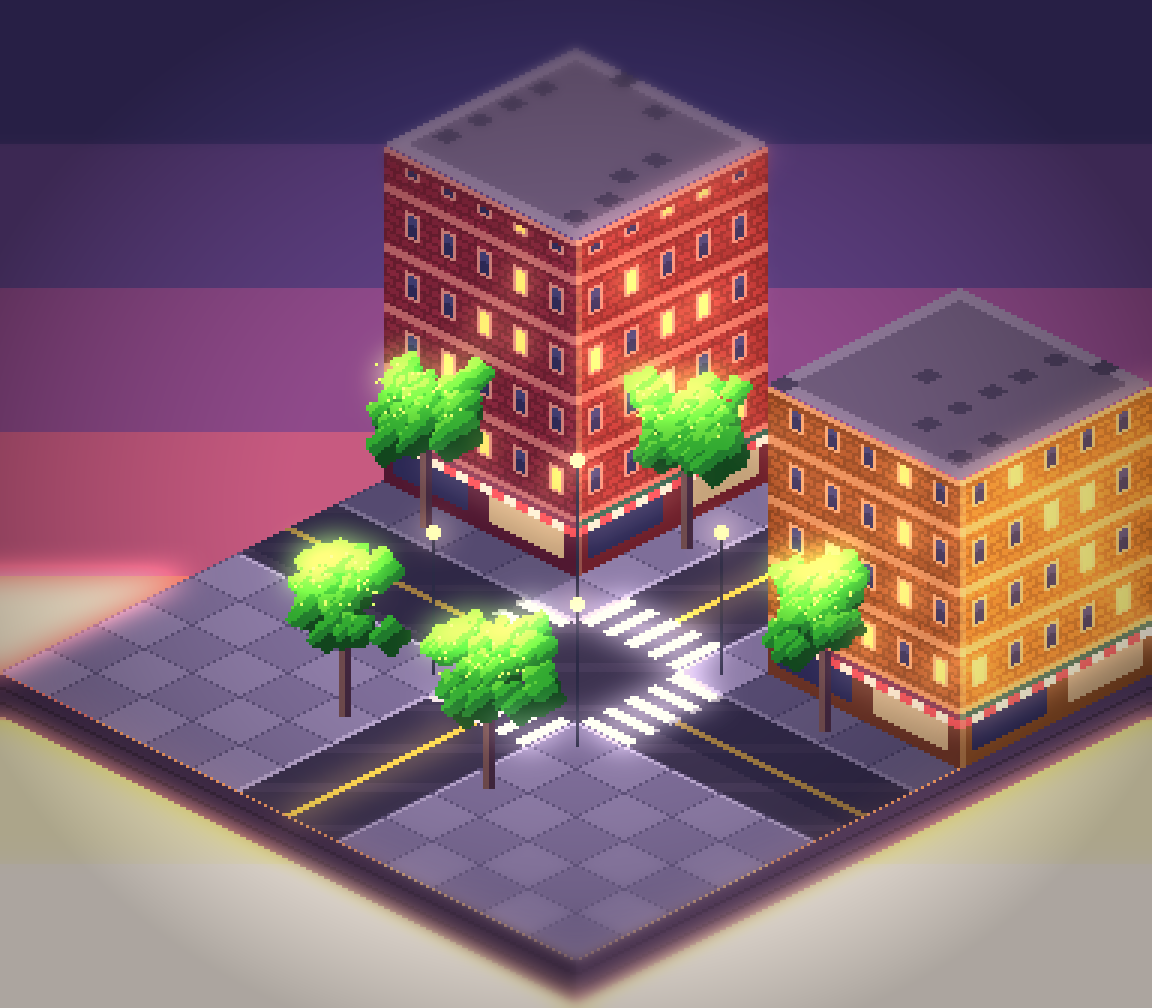
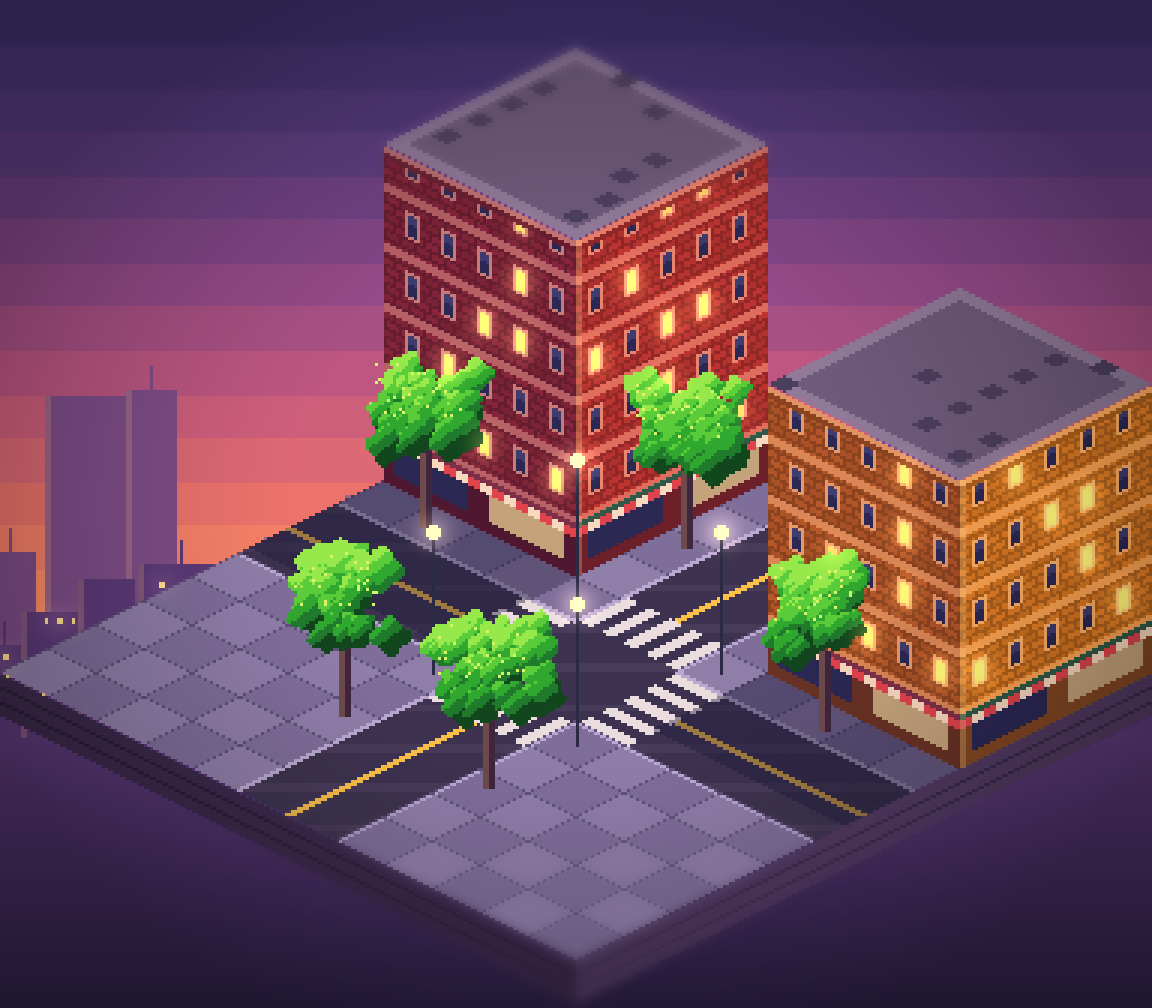
Iso block: gradient sky, far skyline, lights-only bloom, dark ground fog
Claude-Session: https://claude.ai/code/session_018A3EjUJwum2xaBpGm7gsrV

diff --git a/games/background/iso/make_iso_v1.py b/games/background/iso/make_iso_v1.py
@@ -1,0 +1,148 @@
+"""Isometric city block, 2:1 pixel iso (tile 32x16), dusk. Art grid 384x336, then an HD-2D look pass (bloom, tilt-shift, vignette)."""
+import math, random
+from PIL import Image, ImageFilter, ImageChops
+W,H=384,336; OX,OY=192,128; N=12
+def hx(s): s=s.lstrip('#'); return tuple(int(s[i:i+2],16) for i in (0,2,4))
+def lerp(a,b,t): return tuple(max(0,min(255,int(a[i]+(b[i]-a[i])*t))) for i in range(3))
+def hsh(*a): return (hash(a)&0xffff)/65535.0
+SKY=[hx(c) for c in ("#3b3170","#5a3f86","#8a4a90","#c05a86","#e8776e","#ffa06a","#ffc383")]
+im=Image.new("RGB",(W,H)); px=im.load()
+for y in range(H):
+    for x in range(W): px[x,y]=SKY[min(6,int(y/H*7*1.0))]
+def put(x,y,c):
+    if 0<=x<W and 0<=y<H: px[x,y]=c
+def scr(gx,gy,gz=0): return int(round(OX+(gx-gy)*16)), int(round(OY+(gx+gy)*8-gz))
+def inv(sx,sy): a=(sx-OX)/16; b=(sy-OY)/8; return (a+b)/2,(b-a)/2
+BUILD=[(0,4,0,4,112,"brick"),(8,12,0,4,96,"orange")]      # bx0,bx1,by0,by1,height,colour
+def inshadow(gx,gy):
+    for bx0,bx1,by0,by1,h,_ in BUILD:
+        d=h/40.0
+        if bx0<=gx<bx1 and by1<=gy<by1+d*(1-0.0): return True
+    return False
+ROAD=lambda g:5<=g<7
+ASPH=hx("#3b3354"); ASPH2=hx("#453b5e"); SIDE=hx("#8a7eb0"); SIDE2=hx("#7a6ea0"); JOINT=hx("#5c5280"); CURB=hx("#b4a8d8")
+# ---- ground by inverse mapping
+for y in range(H):
+    for x in range(W):
+        gx,gy=inv(x+.5,y+.5)
+        if not(0<=gx<N and 0<=gy<N): continue
+        rx,ry=ROAD(gx),ROAD(gy)
+        if rx or ry:
+            c=ASPH if int(gx*3+gy*3)%5 else ASPH2
+            if rx and ry: pass
+            elif ry:   # road runs along x (gy in 5..7)
+                if abs(gy-6)<.05 and not(3.9<gx<5.05 or 6.95<gx<8.1): c=hx("#f2c14e")
+                elif (3.9<gx<4.9 or 7.1<gx<8.1) and int((gy-5)*4.5)%2==0: c=hx("#e2dce8")
+            else:      # road runs along y
+                if abs(gx-6)<.05 and not(3.9<gy<5.05 or 6.95<gy<8.1): c=hx("#f2c14e")
+                elif (3.9<gy<4.9 or 7.1<gy<8.1) and int((gx-5)*4.5)%2==0: c=hx("#e2dce8")
+        else:
+            c=SIDE if (int(gx)+int(gy))%2 else SIDE2
+            for e in (5,7):
+                if abs(gx-e)<.09 or abs(gy-e)<.09: c=CURB
+            if abs(gx-int(gx))<.04 or abs(gy-int(gy))<.04: c=JOINT
+        if inshadow(gx,gy): c=lerp(c,hx("#1d1a3a"),.42)
+        px[x,y]=c
+# ---- slab sides (diorama thickness)
+TH=14
+for i in range(N*16):
+    for side in (0,1):
+        if side==0: xc=OX-(N-0)*0; sx=scr(N,N)[0]-1-i; ytop=scr(N,N)[1]-i//2   # left face (gy=N)
+        else: sx=scr(N,N)[0]+i; ytop=scr(N,N)[1]-i//2
+        for t in range(TH):
+            c=hx("#3a2a50") if side==0 else hx("#4e3a66")
+            if t%5==4: c=lerp(c,(0,0,0),.25)
+            put(sx,ytop+t,c)
+# ---- sprites
+def building(bx0,bx1,by0,by1,Hh,kind):
+    lit,shd={"brick":(hx("#c83a3a"),hx("#8e2a46")),"orange":(hx("#f08a2a"),hx("#c06030")),"blue":(hx("#4a6ad0"),hx("#2f4496"))}[kind]
+    xc,yc=scr(bx1,by1)
+    for face in (0,1):
+        L=((bx1-bx0) if face==0 else (by1-by0))*16
+        base=shd if face==0 else lit
+        for i in range(L):
+            sx=xc-1-i if face==0 else xc+i
+            yb=yc-i//2
+            for v in range(Hh):
+                y=yb-v-1; c=base
+                u=i if face==0 else i
+                fl=v//20; fv=v%20
+                if v<18:                                         # ground floor shop
+                    c=lerp(base,(10,5,30),.5)
+                    if 3<v<13 and 3<u%32<29: c=lerp(hx("#5a5aa0"),hx("#ffd36b"),.6) if (u//32+face)%2==0 else hx("#2a2858")
+                    elif 13<=v<16: c=hx("#d8434f") if (u//4)%2==0 else hx("#f0d8c8")
+                    elif v>=16: c=hx("#7a2f4c") if face==0 else hx("#2f5a4a")
+                elif fv>=17 and v<Hh-4: c=lerp(base,(255,225,190),.3)       # floor ledge
+                elif v>=Hh-4: c=lerp(base,(255,225,190),.4) if v>=Hh-2 else lerp(base,(0,0,0),.3)  # cornice
+                elif 4<fv<14 and 3<u%12<9:
+                    inner=5<fv<13 and 4<u%12<8
+                    lit_w=hsh(u//12,fl,face,bx0)<.4
+                    c=(hx("#ffd36b") if lit_w else hx("#2a2858")) if inner else lerp(base,(255,225,190),.45)
+                    if inner and not lit_w and fv>9: c=lerp(c,hx("#5a5aa0"),.4)
+                else:
+                    row=v//3; off=2 if row%2 else 0
+                    j=hsh(row,(u+off)//5,face)
+                    c=lerp(base,(0,0,0),.08+.1*j)
+                    if v%3==0 or (u+off)%5==0: c=lerp(base,(0,0,0),.3)
+                if i<2: c=lerp(c,(255,225,170),.25) if face==1 else c   # edge light
+                put(sx,y,c)
+    # roof
+    pts=[scr(bx0,by0,Hh),scr(bx1,by0,Hh),scr(bx1,by1,Hh),scr(bx0,by1,Hh)]
+    xs=[p[0] for p in pts]; ys=[p[1] for p in pts]
+    for y in range(int(min(ys)),int(max(ys))+1):
+        for x in range(int(min(xs)),int(max(xs))+1):
+            gx,gy=inv(x+.5,y+.5+ (Hh))   # invert at roof height
+            if bx0<=gx<bx1 and by0<=gy<by1:
+                c=hx("#6a5a80"); 
+                if gx<bx0+.25 or gy<by0+.25 or gx>bx1-.25 or gy>by1-.25: c=hx("#8a7aa0")
+                if hsh(int(gx*3),int(gy*3))<.08: c=hx("#4a3f62")
+                put(x,y,c)
+G=[tuple(hx(c)) for c in ("#12461f","#1f7a2e","#2fa832","#58cc3c","#92e84e","#d0f470")]
+def tree(gx,gy,seed):
+    rnd=random.Random(seed); sx,sy=scr(gx,gy)
+    for y in range(sy-26,sy+1):
+        for x in range(sx-2,sx+2): put(x,y,hx("#6a4a50") if x<sx else hx("#3e2640"))
+    cx,cy=sx,sy-40
+    lumps=[(cx+rnd.uniform(-1,1)*18*math.sqrt(rnd.random()),cy+rnd.uniform(-1,1)*14,rnd.uniform(4.5,7.5)) for _ in range(34)]
+    lumps.sort(key=lambda l:l[1]+l[0]*.5)
+    for li,(lx,ly,r) in enumerate(lumps):
+        for y in range(int(ly-r)-1,int(ly+r)+2):
+            for x in range(int(lx-r)-1,int(lx+r)+2):
+                dx,dy=x-lx,y-ly
+                if dx*dx+dy*dy*1.1>(r*(1+.15*math.sin(math.atan2(dy,dx)*4+li)))**2: continue
+                t=(-dx*.6-dy*.8)/r*.9-((ly-cy)/14)*.55
+                k=0 if t<-.55 else 1 if t<-.1 else 2 if t<.35 else 3 if t<.75 else 4
+                put(x,y,G[k])
+    for _ in range(26): put(int(cx+rnd.uniform(-17,12)),int(cy+rnd.uniform(-14,4)),G[5])
+def lamp(gx,gy):
+    sx,sy=scr(gx,gy)
+    for y in range(sy-44,sy+1): put(sx,y,hx("#2a2a48"))
+    for dx in range(-2,3):
+        for dy in range(-2,3):
+            if abs(dx)+abs(dy)<=3: put(sx+dx,sy-47+dy,hx("#ffe0a8"))
+objs=[("b",BUILD[0],4),("b",BUILD[1],12)]
+for gx,gy in ((4.5,2.2),(7.5,2.2),(4.5,9.3),(7.5,9.3),(1.4,4.5),(9.8,4.6)): objs.append(("t",(gx,gy),gx+gy))
+for gx,gy in ((4.5,4.5),(7.5,4.5),(4.5,7.5),(7.5,7.5)): objs.append(("l",(gx,gy),gx+gy+.1))
+objs.sort(key=lambda o:o[2])
+for k,(kind,a,_) in enumerate(objs):
+    if kind=="b": building(*a)
+    elif kind=="t": tree(a[0],a[1],k)
+    else: lamp(*a)
+art=im; art.save("iso_block_art.png")
+S=3; big=art.resize((W*S,H*S),Image.NEAREST); big.save("iso_block_x3.png")
+# ---- HD-2D look pass: bloom on bright, tilt-shift blur, vignette, warm grade
+try:
+    import numpy as np
+    a=np.asarray(big).astype("float32")/255
+    lum=a.max(axis=2); bright=np.where((lum>0.86)[...,None],a,0)
+    bl=Image.fromarray((bright*255).astype("uint8")).filter(ImageFilter.GaussianBlur(14))
+    a=np.clip(a+np.asarray(bl).astype("float32")/255*1.1,0,1)
+    blur=np.asarray(Image.fromarray((a*255).astype("uint8")).filter(ImageFilter.GaussianBlur(5))).astype("float32")/255
+    yy=np.linspace(0,1,a.shape[0])[:,None,None]; m=np.clip(np.maximum((0.22-yy)/0.22,(yy-0.78)/0.22),0,1)
+    a=a*(1-m)+blur*m
+    xx=np.linspace(-1,1,a.shape[1])[None,:,None]; yv=np.linspace(-1,1,a.shape[0])[:,None,None]
+    vig=1-0.35*np.clip(xx**2+yv**2-0.25,0,1); a=a*vig
+    a=a*np.array([1.04,1.0,0.96])
+    Image.fromarray((np.clip(a,0,1)*255).astype("uint8")).save("iso_block_hd2d.png")
+    print("hd2d ok")
+except Exception as e: print("hd2d skipped",e)

diff --git a/games/background/iso/make_iso.py b/games/background/iso/make_iso.py
@@ -7,8 +7,33 @@ def lerp(a,b,t): return tuple(max(0,min(255,int(a[i]+(b[i]-a[i])*t))) for i in r
 def hsh(*a): return (hash(a)&0xffff)/65535.0
 SKY=[hx(c) for c in ("#3b3170","#5a3f86","#8a4a90","#c05a86","#e8776e","#ffa06a","#ffc383")]
 im=Image.new("RGB",(W,H)); px=im.load()
+STEPS=18
+def skycol(k):
+    pos=k/(STEPS-1)*(len(SKY)-1); i=min(int(pos),len(SKY)-2); return lerp(SKY[i],SKY[i+1],pos-i)
 for y in range(H):
-    for x in range(W): px[x,y]=SKY[min(6,int(y/H*7*1.0))]
+    k=min(STEPS-1,int(y/ (H*0.78) *STEPS))
+    for x in range(W): px[x,y]=skycol(k)
+rs=random.Random(5)
+# far skyline: two flat layers with a few lit windows (hard shapes, no dither)
+def skyline(base,hmin,hmax,col,win,seed):
+    r=random.Random(seed); x=-6
+    while x<W:
+        w=r.randint(14,30); h=r.randint(hmin,hmax)
+        for xx in range(x,min(W,x+w)):
+            for yy in range(base-h,base):
+                if 0<=xx<W and 0<=yy<H:
+                    c=col
+                    if xx==x or xx==x+1: c=lerp(col,(255,190,150),.22)
+                    if win and (xx-x)%5 in (2,3) and (yy%6) in (2,3) and yy<base-4 and 3<xx-x<w-3 and hsh(xx//5,yy//6,seed)<.3: c=hx("#ffd890")
+                    px[xx,yy]=c
+        if r.random()<.4:
+            for yy in range(base-h-8,base-h):
+                if 0<=x+w//2<W and 0<=yy<H: px[x+w//2,yy]=col
+        x+=w+r.randint(-4,3)
+skyline(232,40,110,hx("#7a4e8e"),False,1)
+skyline(246,26,80,hx("#5a3a7e"),True,2)
+for yy in range(246,H):
+    for xx in range(W): px[xx,yy]=lerp(hx("#5a3a7e"),hx("#2a2048"),(yy-246)/(H-246))
 def put(x,y,c):
     if 0<=x<W and 0<=y<H: px[x,y]=c
 def scr(gx,gy,gz=0): return int(round(OX+(gx-gy)*16)), int(round(OY+(gx+gy)*8-gz))
@@ -134,14 +159,18 @@ S=3; big=art.resize((W*S,H*S),Image.NEAREST); big.save("iso_block_x3.png")
 try:
     import numpy as np
     a=np.asarray(big).astype("float32")/255
-    lum=a.max(axis=2); bright=np.where((lum>0.86)[...,None],a,0)
-    bl=Image.fromarray((bright*255).astype("uint8")).filter(ImageFilter.GaussianBlur(14))
-    a=np.clip(a+np.asarray(bl).astype("float32")/255*1.1,0,1)
+    art_np=np.asarray(art).astype("int16")
+    def near(c,t=10): return (abs(art_np-np.array(c)).sum(axis=2)<t)
+    lights=near((255,211,107))|near((255,224,168))|near((255,217,140),14)
+    lm=np.kron(lights,np.ones((S,S),dtype=bool))
+    bright=np.where(lm[...,None],a,0)
+    bl=Image.fromarray((bright*255).astype("uint8")).filter(ImageFilter.GaussianBlur(10))
+    a=np.clip(a+np.asarray(bl).astype("float32")/255*1.0,0,1)
     blur=np.asarray(Image.fromarray((a*255).astype("uint8")).filter(ImageFilter.GaussianBlur(5))).astype("float32")/255
     yy=np.linspace(0,1,a.shape[0])[:,None,None]; m=np.clip(np.maximum((0.22-yy)/0.22,(yy-0.78)/0.22),0,1)
     a=a*(1-m)+blur*m
     xx=np.linspace(-1,1,a.shape[1])[None,:,None]; yv=np.linspace(-1,1,a.shape[0])[:,None,None]
-    vig=1-0.35*np.clip(xx**2+yv**2-0.25,0,1); a=a*vig
+    vig=1-0.28*np.clip(xx**2+yv**2-0.25,0,1); a=a*vig
     a=a*np.array([1.04,1.0,0.96])
     Image.fromarray((np.clip(a,0,1)*255).astype("uint8")).save("iso_block_hd2d.png")
     print("hd2d ok")
